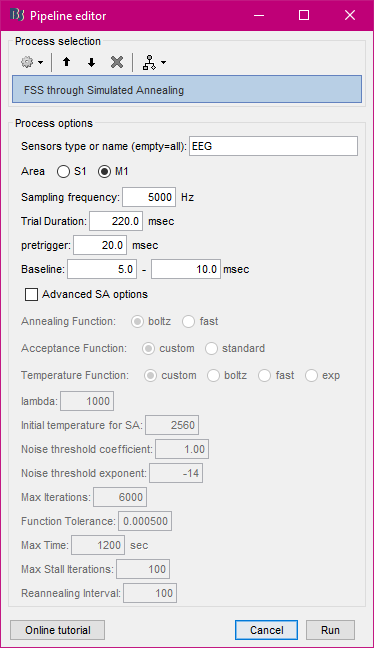
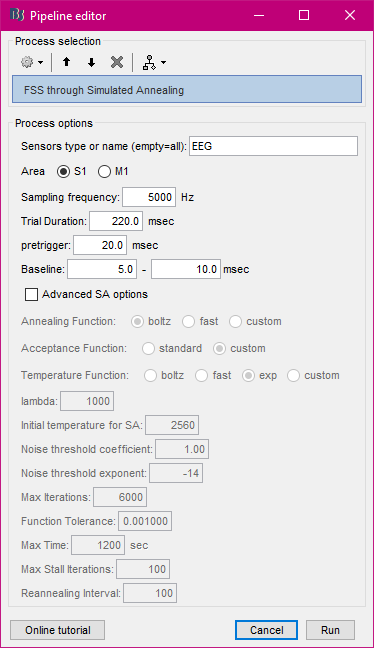
Correzioni definite in chiamata

diff --git a/process_fss.m b/process_fss.m
@@ -71,12 +71,12 @@ function sProcess = GetDescription()
     % === Acceptance Function
     sProcess.options.accfcn.Comment = {'standard', 'custom', 'Acceptance Function: '};
     sProcess.options.accfcn.Type    = 'radio_line';
-    sProcess.options.accfcn.Value   = 1;
+    sProcess.options.accfcn.Value   = 2;
     sProcess.options.accfcn.Class = 'advanced';
     % === Temperature Function
     sProcess.options.tmpfcn.Comment = {'boltz', 'fast', 'exp' , 'custom', 'Temperature Function: '};
     sProcess.options.tmpfcn.Type    = 'radio_line';
-    sProcess.options.tmpfcn.Value   = 1;
+    sProcess.options.tmpfcn.Value   = 3;
     sProcess.options.tmpfcn.Class = 'advanced';
     % === Balancing Parameter Lambda
     sProcess.options.lambda.Comment = 'lambda: ';
@@ -154,7 +154,7 @@ function [TopoOut] = Run(sProcess, sInput)
     % Get the prompt list ready
     prompt = {'lowSEF', 'maxSEF', 'highSEF'};
     % Get the window title ready
-    dlgtitle = strcat(area, ' area SEF values');
+    dlgtitle = strcat(area, ' area SEF values check');
     % Set the text boxes dimensions
     dims = [1 45];
     % Get the default list ready
